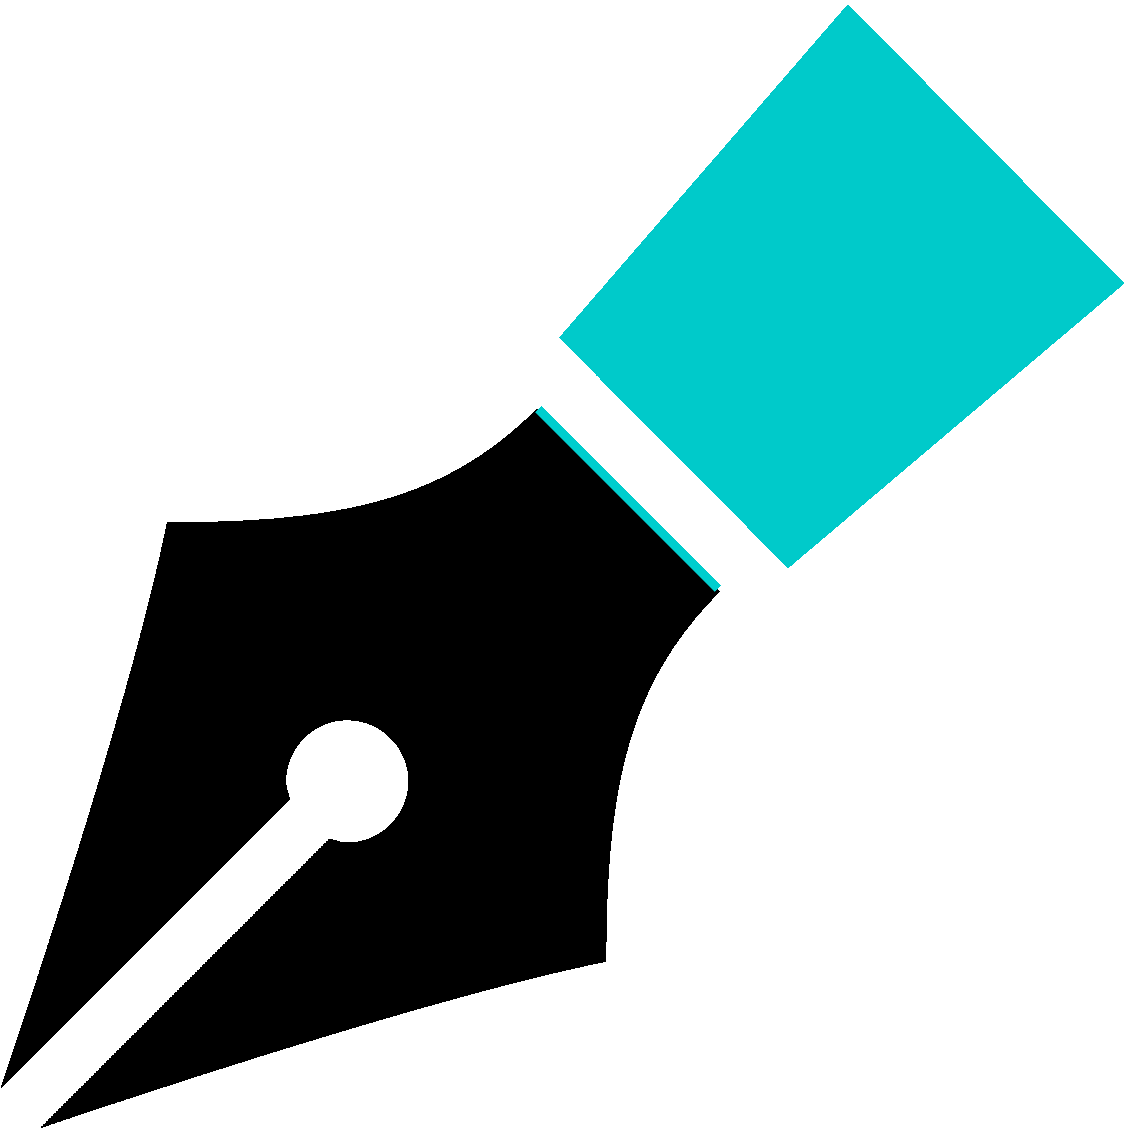
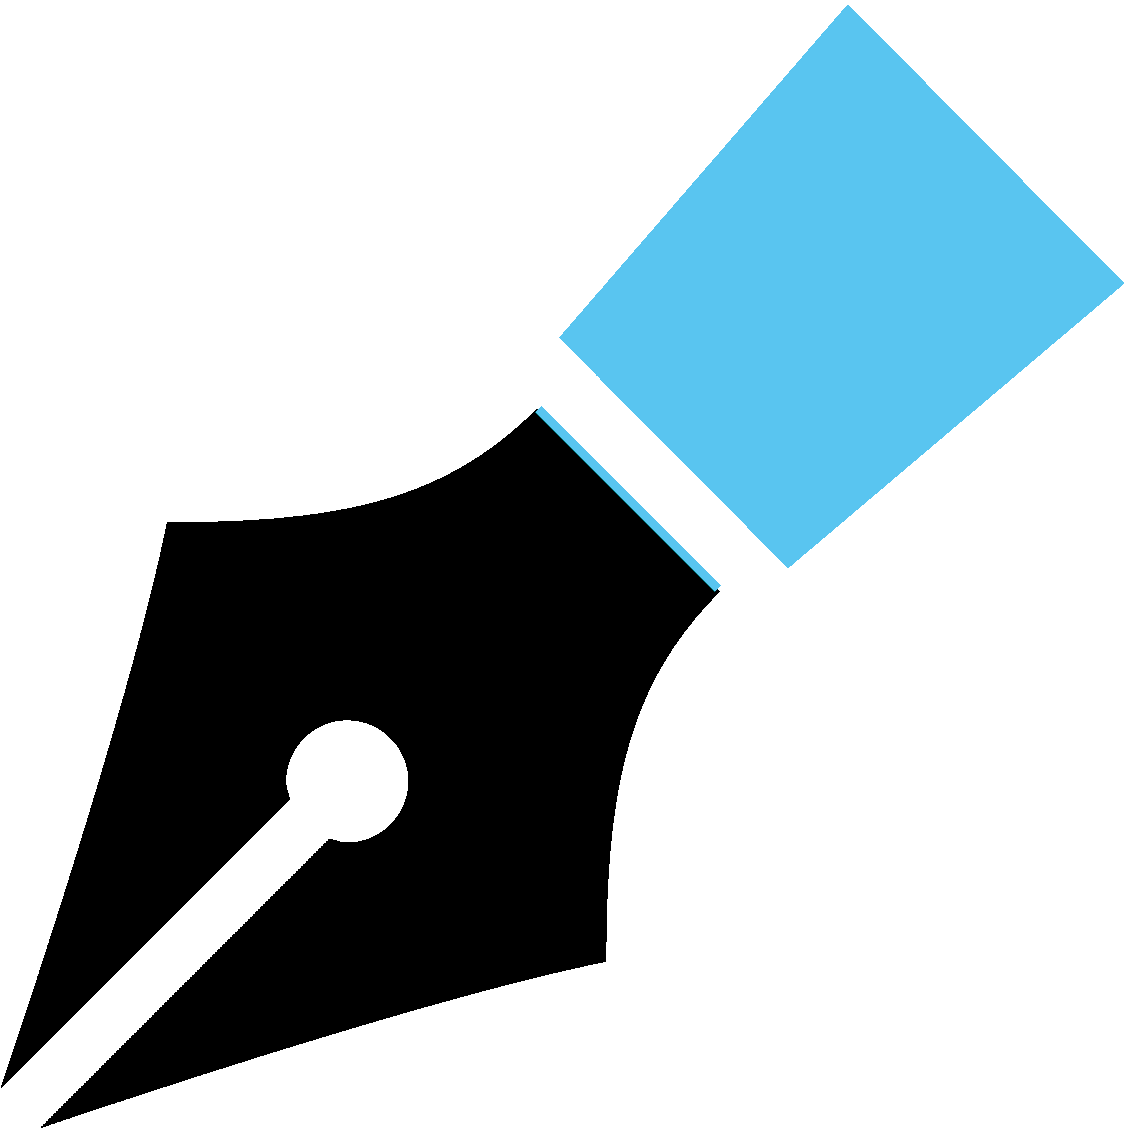
SERVICESALMOST

Changed region(s): [[0.4887, 0.0, 0.9773, 0.4887], [0.4581, 0.336, 0.6414, 0.5192]]

diff --git a/assets/css/services.css b/assets/css/services.css
@@ -1,7 +1,7 @@
 #service{
 	padding-top: 0px;
 	margin-top:0px;
-	height: 710px;
+	height: 640px;
 	background-color:#f7f7f7;
 }
 #prod{
@@ -22,7 +22,7 @@ img.laptop{
     margin-left: 90px;
     height: 112px;
     width: 128px;
-    margin-top:140px;
+    margin-top:109px;
 }
 img.pen1{
 	height: 108px;
@@ -39,6 +39,7 @@ img.pen1{
 }
 .col-lg-5 {
 	margin-top:10px;
+	padding-top: 40px;
 }
 img.phone{
 	margin-left: 0px;
@@ -72,14 +73,17 @@ p.heads{
 	margin-top: -156px;
     margin-left: 116px;
     font-size: 90px;
-    padding-top: 80px;
-    color: #19d2d2;
+    padding-top: 100px;
+    color: #59c5f0;
     float: left;
     font-weight: bold;
-    margin-bottom: 20px;
+    margin-bottom: 0px;
+    font-family:Arial;
+    width:370px;
+
 }
 p.laptop1{
-	margin-top: 157px;
+	margin-top: 125px;
 	margin-bottom: 3px;
 	font-weight: bold;
 

diff --git a/assets/css/contactus.css b/assets/css/contactus.css
@@ -35,6 +35,8 @@ span.labelscontact{
 .mapouter{
   text-align:right;
   height:385px;
+  padding-top: 75px;
+  
   width:600px;
 }
 .gmap_canvas {
@@ -125,7 +127,4 @@ textarea {
 .button:hover span:after {
   opacity: 1;
   right: 0;
-}
-.col-lg-5{
-  padding-top: 75px;
 }

diff --git a/application/views/app/nmgwebsite/services.php b/application/views/app/nmgwebsite/services.php
@@ -6,7 +6,7 @@
 				<p class="heads"> WE DO?</p>
 			</div>
 			<div class="col-lg-3">
-				<img src="assets/img/monitorsh.png" class="laptop">
+				<img src="assets/img/monitorshi.png" class="laptop">
 			</div>
 			<div class="col-lg-4">
 				<p class="laptop1">Desktop Application Development</p>
@@ -22,7 +22,7 @@
 				<p class="pen3">PHP/nodeJS custom development, including relevant database solutions. Applications are built using modern frameworks and industry leading scalability.</p>
 			</div>
 			<div class="col-lg-2">
-				<img src="assets/img/mobilesh.png" class="phone">
+				<img src="assets/img/phonesh.png" class="phone">
 			</div>
 			<div class="col-lg-4">
 				<p class="mobile1">Mobile Application for Android and iOS</p>
